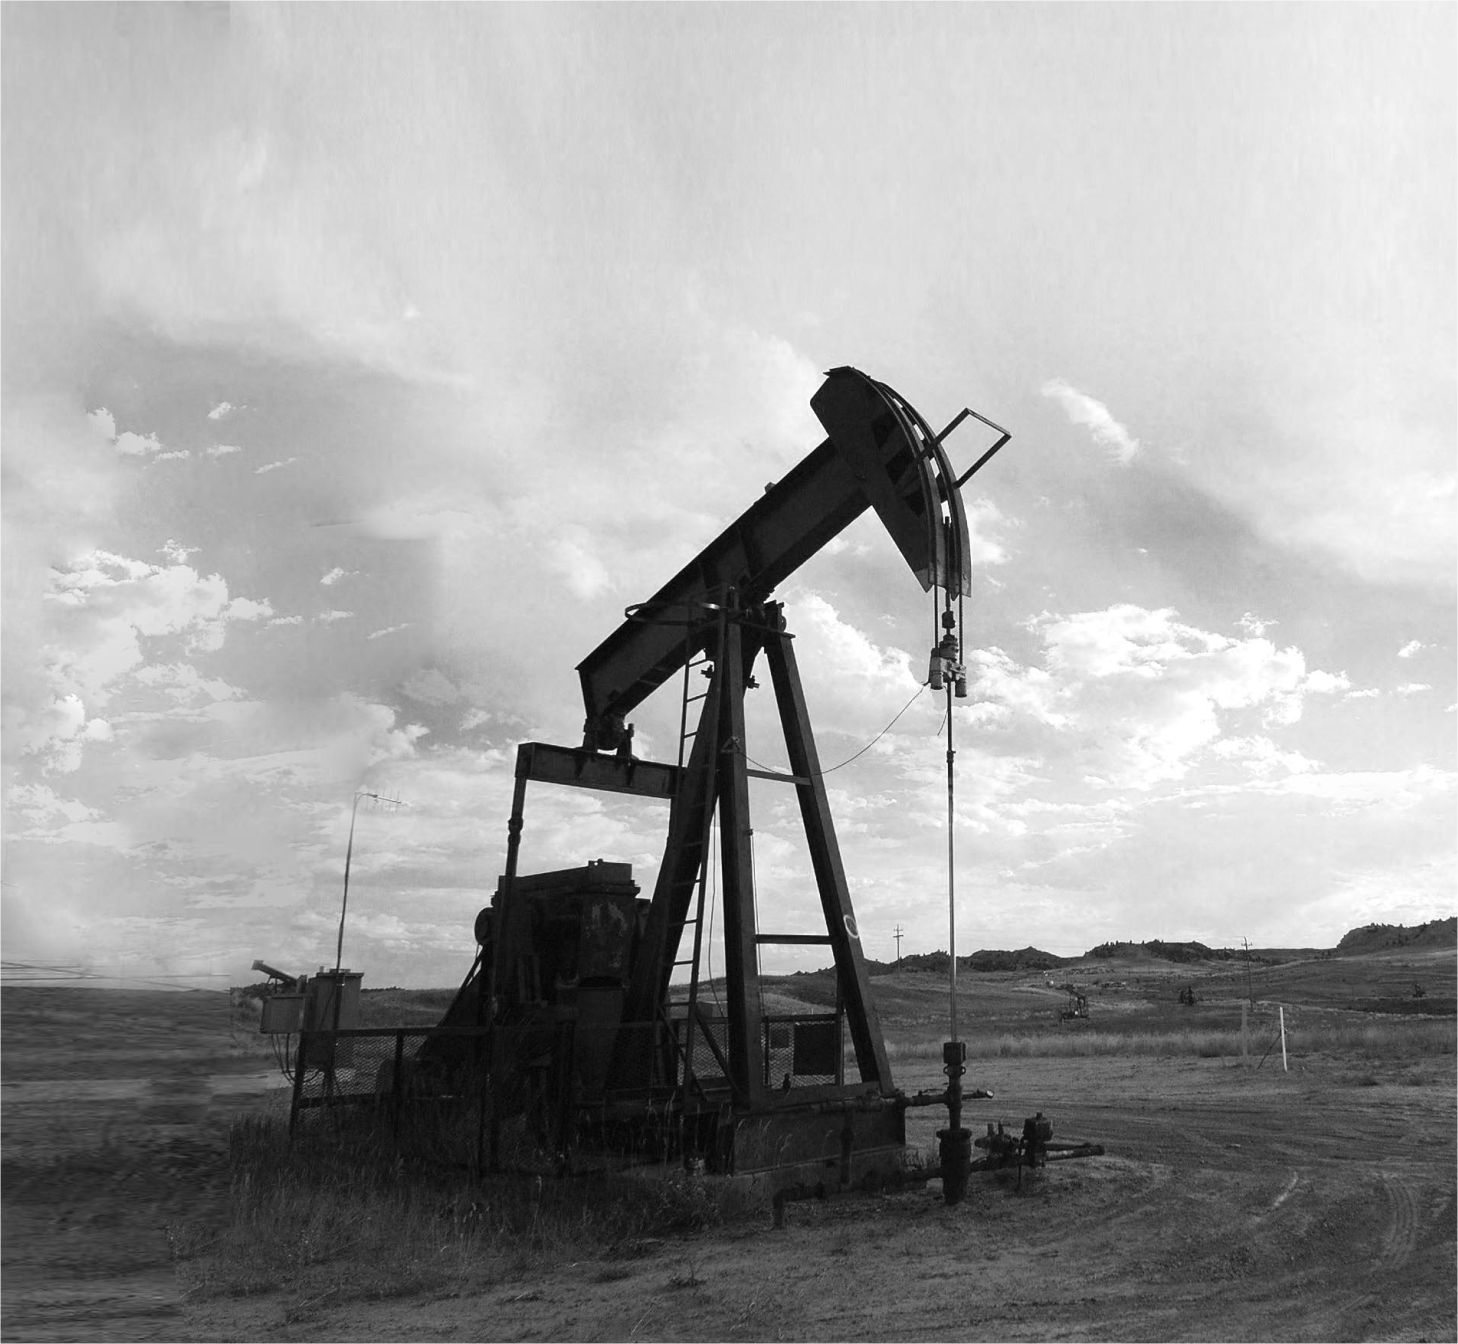
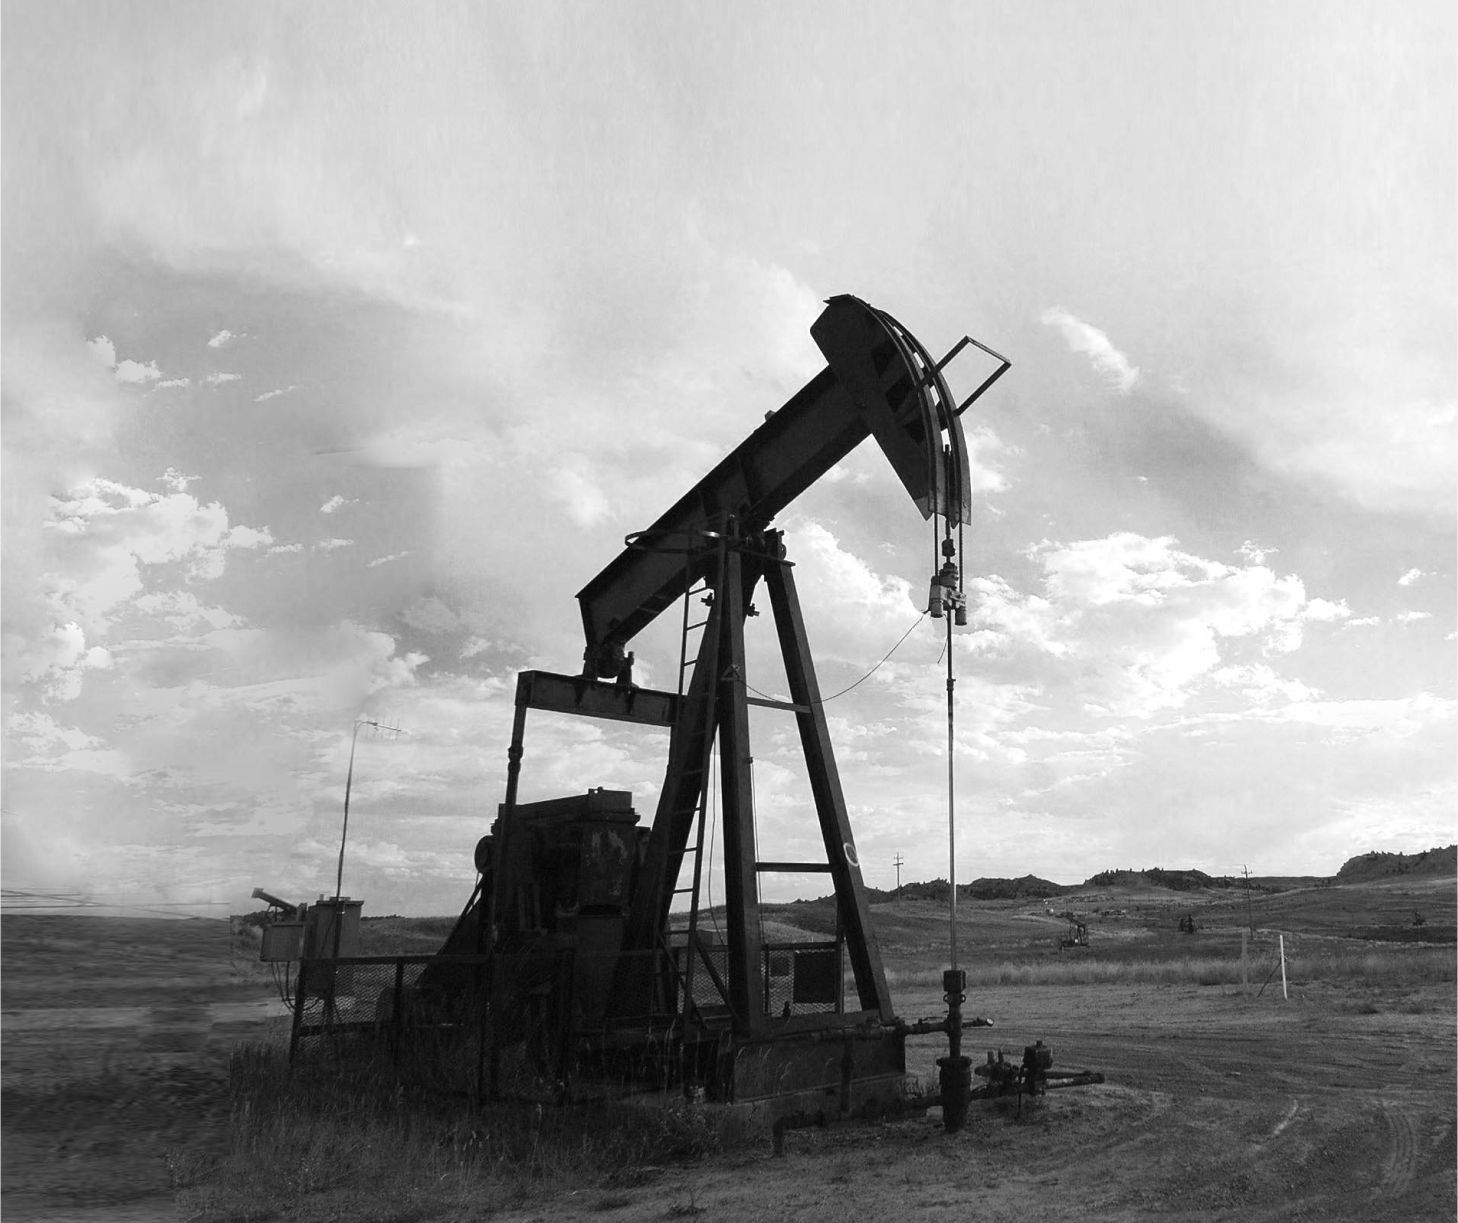
changed header height

diff --git a/src/scss/nav.scss b/src/scss/nav.scss
@@ -12,7 +12,7 @@
   background-image: url("./../img/derrick.jpg");
   background-size: cover;
   background-repeat: no-repeat;
-  min-height: 913px;
+  min-height: 830px;
   padding-top: 50px;
   position: relative;
 }
@@ -56,7 +56,7 @@
   margin-left: 180px;
   width: 34%;
   display: -webkit-inline-box;
-  margin-top: 75px;
+  margin-top: 50px;
 }
 .logonziv {
   width: 10rem;
@@ -98,12 +98,12 @@
 
 .site-subject {
   background-color: #003399;
-  opacity: 0.32;
+  opacity: 0.72;
   margin-left: -100px;
   padding-top: 50px;
   padding-right: 20px;
   width: 630px;
-  height: 665px;
+  height: 607px;
   position: absolute;
   bottom: 0px;
 }
@@ -128,11 +128,12 @@
   display: inline-block;
   cursor: pointer;
   color: #ffffff;
-  font-family: Arial;
-  font-size: 1.2em;
   text-decoration: none;
   text-shadow: 0px -1px 0px #854629;
   margin-left: 30px;
+  font-size: 1.2em;
+  line-height: 1.3;
+  padding: 0 23px;
   &:hover {
     background: linear-gradient(to bottom, #bc3315 5%, #d0451b 100%);
     background-color: #bc3315;

diff --git a/src/scss/products.scss b/src/scss/products.scss
@@ -28,6 +28,10 @@
   position: relative;
   bottom: 0;
   z-index: 1000;
+  &:hover {
+    color: #fff;
+    background-color: #d0451b;
+  }
 }
 
 @media (max-width: 767px) {

diff --git a/src/scss/modals.scss b/src/scss/modals.scss
@@ -6,6 +6,7 @@
 .modalbutton__callme {
   min-width: 200px;
   background-color: #d63944;
+  font-size: 1.4em;
 }
 
 .modal__form_input {
